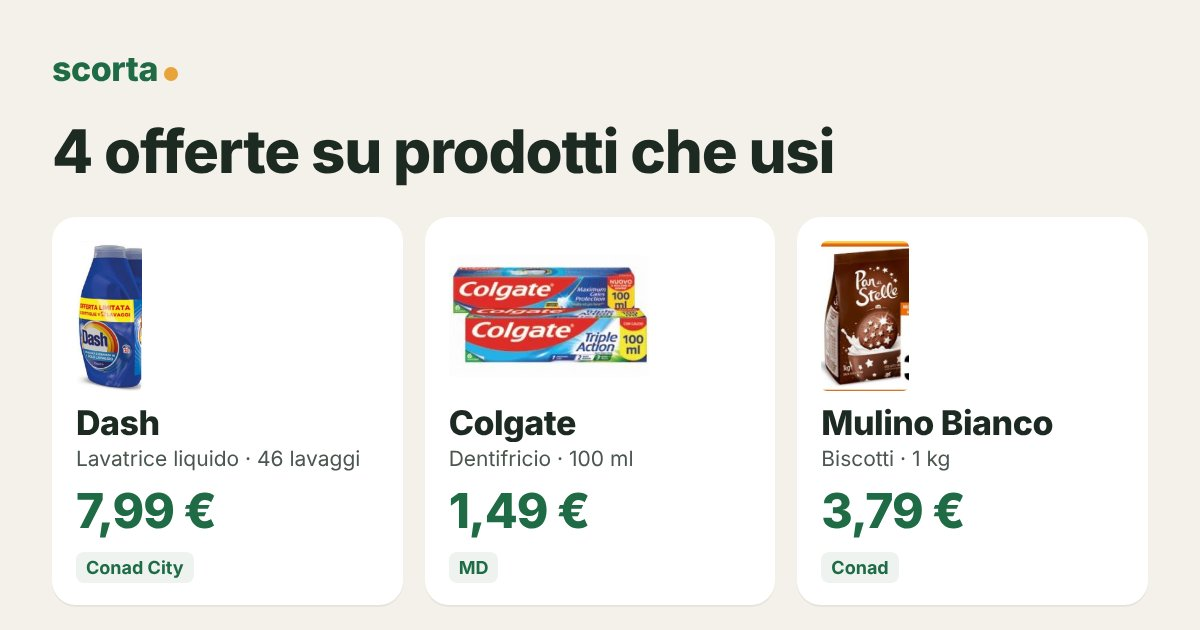
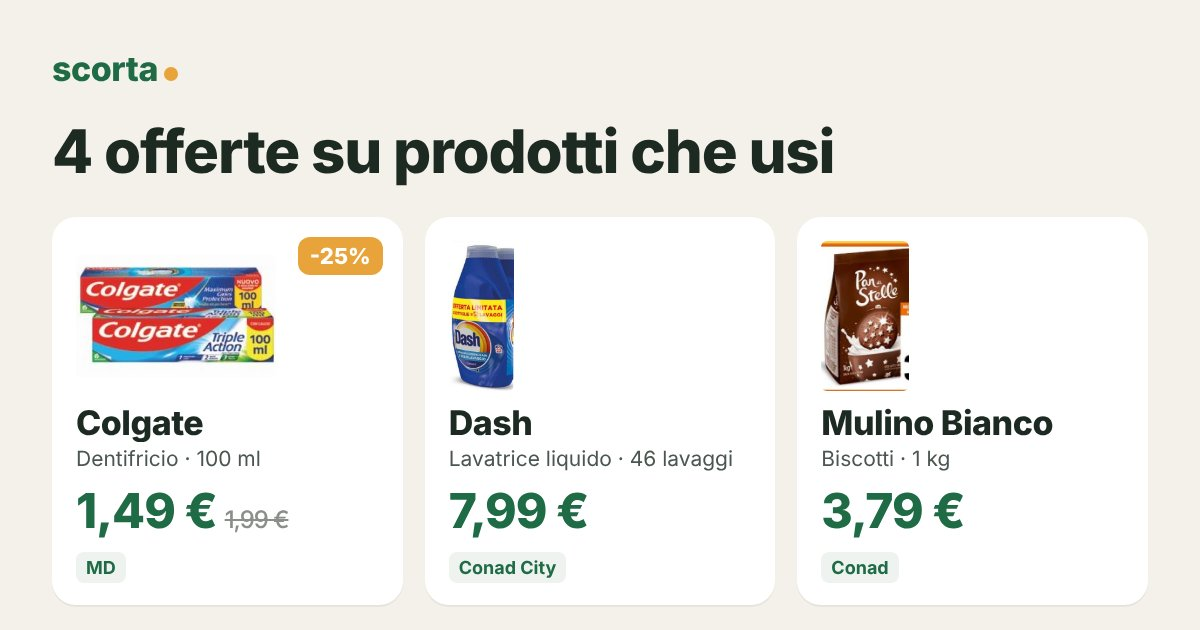
Pagine offerte 2026-11-11
Claude-Session: https://claude.ai/code/session_012BnByD7nnfoHswjF7TKs2L

diff --git a/o/4622f2b6/index.html b/o/4622f2b6/index.html
@@ -6,4 +6,4 @@
 <style>body{margin:0;font-family:-apple-system,system-ui,sans-serif;background:#F4F1EA;color:#1d2a22}main{max-width:560px;margin:auto;padding:16px}img{width:100%;border-radius:14px}
 ul{list-style:none;padding:0}li{display:flex;gap:10px;align-items:center;background:#fff;border-radius:12px;padding:10px 12px;margin:8px 0}.ic{font-size:26px}.th{width:44px;height:44px;object-fit:contain;background:#fff}li div:nth-child(2){flex:1}small{color:#6b746e}.pr{text-align:right;white-space:nowrap}s{color:#8a8f8b;font-size:13px}
 .btn{display:block;text-align:center;background:#1f6b45;color:#fff;font-weight:700;font-size:18px;padding:16px;border-radius:14px;text-decoration:none;margin:18px 0}.map{display:block;color:#1f6b45;margin:6px 0;text-decoration:none}</style></head>
-<body><main><img src="card.jpg" alt=""><a class="btn" href="https://tally.so/r/OQQV7k?f=F011&amp;a=A426,A427,A428,A429,A430,A431,A432,A433">✅ Segna cosa hai comprato</a><ul><li><img class=th src=../../img/497597.jpg><div><b>Selex Natura Chiama fagioli cannellini lessati 300 g</b><br><small>Sole365 · scade domani</small></div><div class="pr"><s>1,38 €</s> <b>0,98 €</b></div></li><li><img class=th src=../../img/eurospin_18452101.jpg><div><b>Tre Mulini spaghetti 1,5 kg</b><br><small>Eurospin · fino al 25/11</small></div><div class="pr"><b>1,19 €</b></div></li><li><img class=th src=../../img/3347f043f2.jpg><div><b>Happyfresh cola 1,5 lt</b><br><small>MD · fino al 29/11</small></div><div class="pr"><b>0,55 €</b></div></li><li><img class=th src=../../img/ddde28b51a.jpg><div><b>Le Specialità di Beppe patate fritte 1 kg</b><br><small>MD · fino al 29/11</small></div><div class="pr"><s>1,49 €</s> <b>1,19 €</b></div></li><li><img class=th src=../../img/c8903ace96.jpg><div><b>Le Specialità di Beppe merluzzo atlantico decapitato 800 g</b><br><small>MD · fino al 29/11</small></div><div class="pr"><b>3,49 €</b></div></li><li><img class=th src=../../img/e83d342f3b.jpg><div><b>Le Specialità di Beppe anelli di totano alla romana 500 g</b><br><small>MD · fino al 29/11</small></div><div class="pr"><b>2,49 €</b></div></li><li><img class=th src=../../img/deco_74M07990P321_301.jpg><div><b>Foxy carta igienica Bouquet 4+2 rotoli</b><br><small>MD · fino al 29/11</small></div><div class="pr"><b>2,39 €</b></div></li><li><img class=th src=../../img/98a47b1ae7.jpg><div><b>Colgate dentifricio assortiti 100 ml</b><br><small>MD · fino al 29/11</small></div><div class="pr"><b>1,49 €</b></div></li></ul><a class="map" href="https://www.google.com/maps/search/?api=1&query=Sole365%20Via%20Diocleziano%2C%20105%20Napoli">📍 Sole365 · Via Diocleziano, 105, Napoli</a><a class="map" href="https://www.google.com/maps/search/?api=1&query=Eurospin%20Via%20Cavalleggeri%20d%27Aosta%2C%2011%20Napoli">📍 Eurospin · Via Cavalleggeri d&#x27;Aosta, 11, Napoli</a><a class="map" href="https://www.google.com/maps/search/?api=1&query=MD%20Via%20Diocleziano%2C%20257%20Napoli">📍 MD · Via Diocleziano, 257, Napoli</a><p><small>Prezzi e scadenze dai volantini delle insegne. Rispondi STOP su WhatsApp per non ricevere più avvisi.</small></p></main></body></html>
+<body><main><img src="card.jpg" alt=""><a class="btn" href="https://tally.so/r/OQQV7k?f=F011&amp;a=A426,A427,A428,A429,A430,A431,A432,A433">✅ Segna cosa hai comprato</a><ul><li><img class=th src=../../img/497597.jpg><div><b>Selex Natura Chiama fagioli cannellini lessati 300 g</b><br><small>Sole365 · scade oggi</small></div><div class="pr"><s>1,38 €</s> <b>0,98 €</b></div></li><li><img class=th src=../../img/eurospin_18452101.jpg><div><b>Tre Mulini spaghetti 1,5 kg</b><br><small>Eurospin · fino al 25/11</small></div><div class="pr"><b>1,19 €</b></div></li><li><img class=th src=../../img/3347f043f2.jpg><div><b>Happyfresh cola 1,5 lt</b><br><small>MD · fino al 29/11</small></div><div class="pr"><s>0,79 €</s> <b>0,55 €</b></div></li><li><img class=th src=../../img/ddde28b51a.jpg><div><b>Le Specialità di Beppe patate fritte 1 kg</b><br><small>MD · fino al 29/11</small></div><div class="pr"><s>1,49 €</s> <b>1,19 €</b></div></li><li><img class=th src=../../img/c8903ace96.jpg><div><b>Le Specialità di Beppe merluzzo atlantico decapitato 800 g</b><br><small>MD · fino al 29/11</small></div><div class="pr"><s>4,39 €</s> <b>3,49 €</b></div></li><li><img class=th src=../../img/e83d342f3b.jpg><div><b>Le Specialità di Beppe anelli di totano alla romana 500 g</b><br><small>MD · fino al 29/11</small></div><div class="pr"><s>3,29 €</s> <b>2,49 €</b></div></li><li><img class=th src=../../img/deco_74M07990P321_301.jpg><div><b>Foxy carta igienica Bouquet 4+2 rotoli</b><br><small>MD · fino al 29/11</small></div><div class="pr"><b>2,39 €</b></div></li><li><img class=th src=../../img/98a47b1ae7.jpg><div><b>Colgate dentifricio assortiti 100 ml</b><br><small>MD · fino al 29/11</small></div><div class="pr"><s>1,99 €</s> <b>1,49 €</b></div></li></ul><a class="map" href="https://www.google.com/maps/search/?api=1&query=Sole365%20Via%20Diocleziano%2C%20105%20Napoli">📍 Sole365 · Via Diocleziano, 105, Napoli</a><a class="map" href="https://www.google.com/maps/search/?api=1&query=Eurospin%20Via%20Cavalleggeri%20d%27Aosta%2C%2011%20Napoli">📍 Eurospin · Via Cavalleggeri d&#x27;Aosta, 11, Napoli</a><a class="map" href="https://www.google.com/maps/search/?api=1&query=MD%20Via%20Diocleziano%2C%20257%20Napoli">📍 MD · Via Diocleziano, 257, Napoli</a><p><small>Prezzi e scadenze dai volantini delle insegne. Rispondi STOP su WhatsApp per non ricevere più avvisi.</small></p></main></body></html>

diff --git a/o/2aaea00d/index.html b/o/2aaea00d/index.html
@@ -6,4 +6,4 @@
 <style>body{margin:0;font-family:-apple-system,system-ui,sans-serif;background:#F4F1EA;color:#1d2a22}main{max-width:560px;margin:auto;padding:16px}img{width:100%;border-radius:14px}
 ul{list-style:none;padding:0}li{display:flex;gap:10px;align-items:center;background:#fff;border-radius:12px;padding:10px 12px;margin:8px 0}.ic{font-size:26px}.th{width:44px;height:44px;object-fit:contain;background:#fff}li div:nth-child(2){flex:1}small{color:#6b746e}.pr{text-align:right;white-space:nowrap}s{color:#8a8f8b;font-size:13px}
 .btn{display:block;text-align:center;background:#1f6b45;color:#fff;font-weight:700;font-size:18px;padding:16px;border-radius:14px;text-decoration:none;margin:18px 0}.map{display:block;color:#1f6b45;margin:6px 0;text-decoration:none}</style></head>
-<body><main><img src="card.jpg" alt=""><a class="btn" href="https://tally.so/r/OQQV7k?f=F017&amp;a=A450,A451,A452,A453">✅ Segna cosa hai comprato</a><ul><li><img class=th src=../../img/9d6baa1eff.jpg><div><b>Dash detersivo liquido lavatrice vari tipi 2 bottiglie 46 lavaggi</b><br><small>Conad City · fino al 29/11</small></div><div class="pr"><b>7,99 €</b></div></li><li><img class=th src=../../img/98a47b1ae7.jpg><div><b>Colgate dentifricio assortiti 100 ml</b><br><small>MD · fino al 29/11</small></div><div class="pr"><b>1,49 €</b></div></li><li><img class=th src=../../img/0e0e24a090.jpg><div><b>Mulino Bianco biscotti Pan di Stelle / Nascondini / Abbracci 1 kg</b><br><small>Conad · fino al 29/11</small></div><div class="pr"><b>3,79 €</b></div></li><li><img class=th src=../../img/3edaf223bc.jpg><div><b>Felce Azzurra bagnoschiuma vari tipi 650 ml</b><br><small>Conad · fino al 29/11</small></div><div class="pr"><b>2,25 €</b></div></li></ul><a class="map" href="https://www.google.com/maps/search/?api=1&query=Conad%20City%202%C2%AA%20Traversa%20Divisione%20Siena%203/5/7%20Napoli">📍 Conad City · 2ª Traversa Divisione Siena 3/5/7, Napoli</a><a class="map" href="https://www.google.com/maps/search/?api=1&query=MD%20Via%20Diocleziano%2C%20257%20Napoli">📍 MD · Via Diocleziano, 257, Napoli</a><a class="map" href="https://www.google.com/maps/search/?api=1&query=Conad%20Via%20Diocleziano%20470%20Napoli">📍 Conad · Via Diocleziano 470, Napoli</a><p><small>Prezzi e scadenze dai volantini delle insegne. Rispondi STOP su WhatsApp per non ricevere più avvisi.</small></p></main></body></html>
+<body><main><img src="card.jpg" alt=""><a class="btn" href="https://tally.so/r/OQQV7k?f=F017&amp;a=A450,A451,A452,A453">✅ Segna cosa hai comprato</a><ul><li><img class=th src=../../img/9d6baa1eff.jpg><div><b>Dash detersivo liquido lavatrice vari tipi 2 bottiglie 46 lavaggi</b><br><small>Conad City · fino al 29/11</small></div><div class="pr"><b>7,99 €</b></div></li><li><img class=th src=../../img/98a47b1ae7.jpg><div><b>Colgate dentifricio assortiti 100 ml</b><br><small>MD · fino al 29/11</small></div><div class="pr"><s>1,99 €</s> <b>1,49 €</b></div></li><li><img class=th src=../../img/0e0e24a090.jpg><div><b>Mulino Bianco biscotti Pan di Stelle / Nascondini / Abbracci 1 kg</b><br><small>Conad · fino al 29/11</small></div><div class="pr"><b>3,79 €</b></div></li><li><img class=th src=../../img/3edaf223bc.jpg><div><b>Felce Azzurra bagnoschiuma vari tipi 650 ml</b><br><small>Conad · fino al 29/11</small></div><div class="pr"><b>2,25 €</b></div></li></ul><a class="map" href="https://www.google.com/maps/search/?api=1&query=Conad%20City%202%C2%AA%20Traversa%20Divisione%20Siena%203/5/7%20Napoli">📍 Conad City · 2ª Traversa Divisione Siena 3/5/7, Napoli</a><a class="map" href="https://www.google.com/maps/search/?api=1&query=MD%20Via%20Diocleziano%2C%20257%20Napoli">📍 MD · Via Diocleziano, 257, Napoli</a><a class="map" href="https://www.google.com/maps/search/?api=1&query=Conad%20Via%20Diocleziano%20470%20Napoli">📍 Conad · Via Diocleziano 470, Napoli</a><p><small>Prezzi e scadenze dai volantini delle insegne. Rispondi STOP su WhatsApp per non ricevere più avvisi.</small></p></main></body></html>
